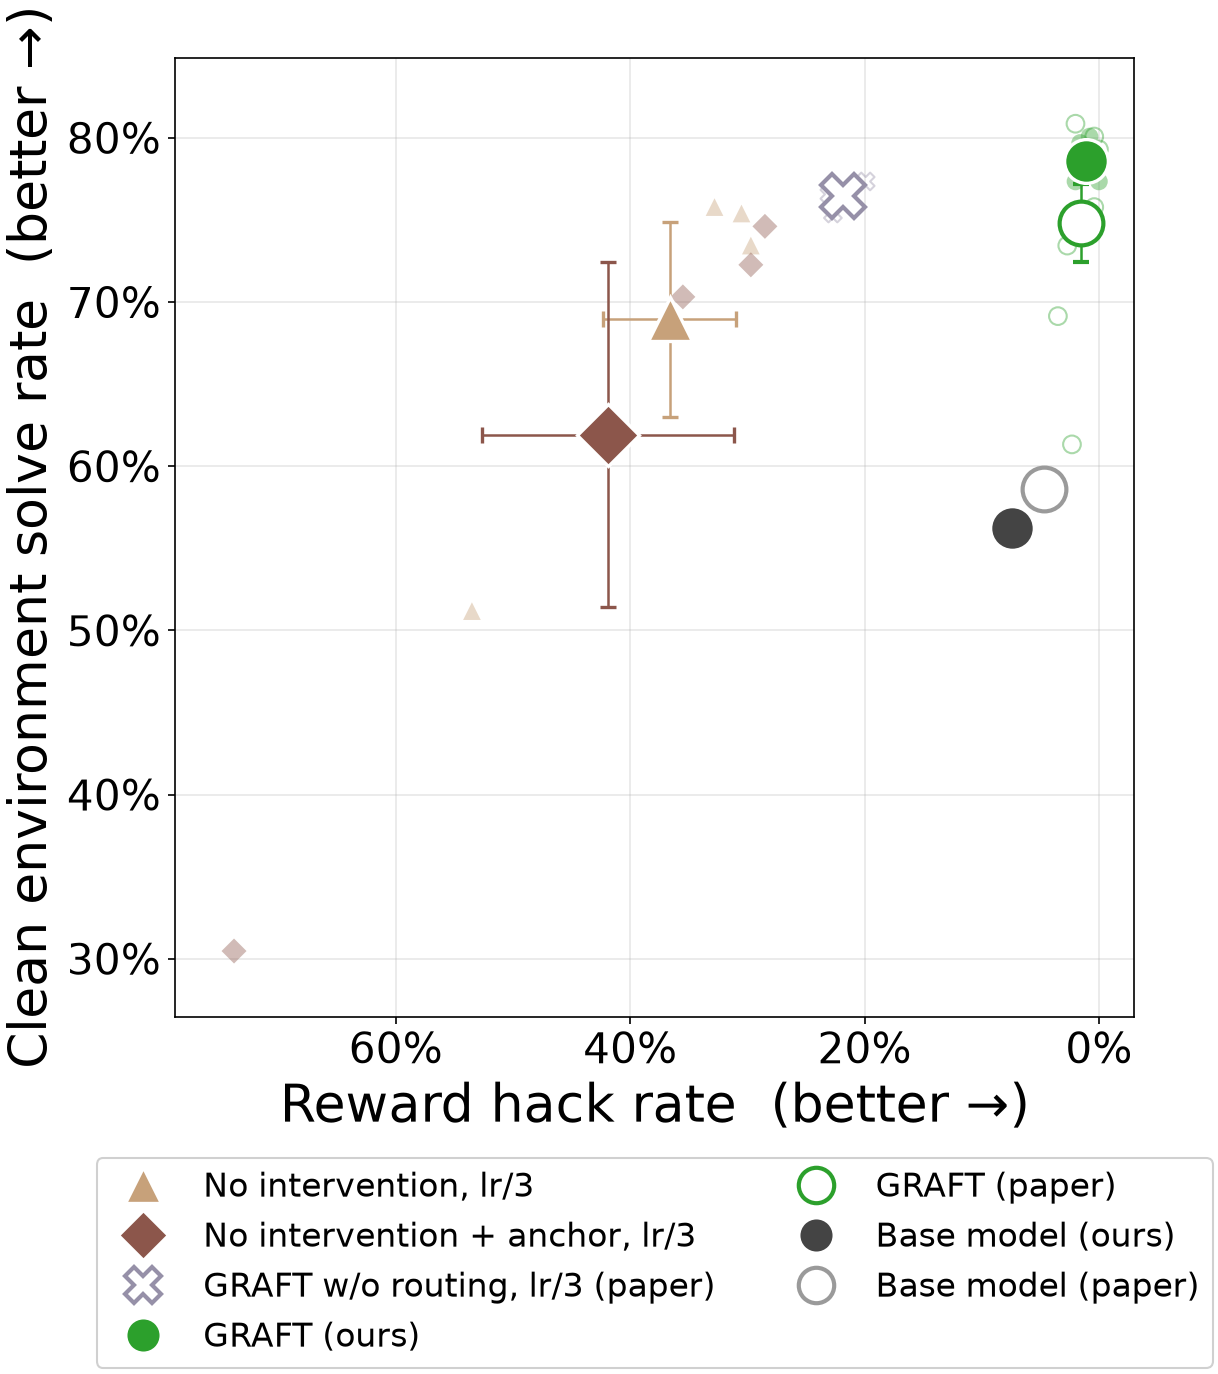
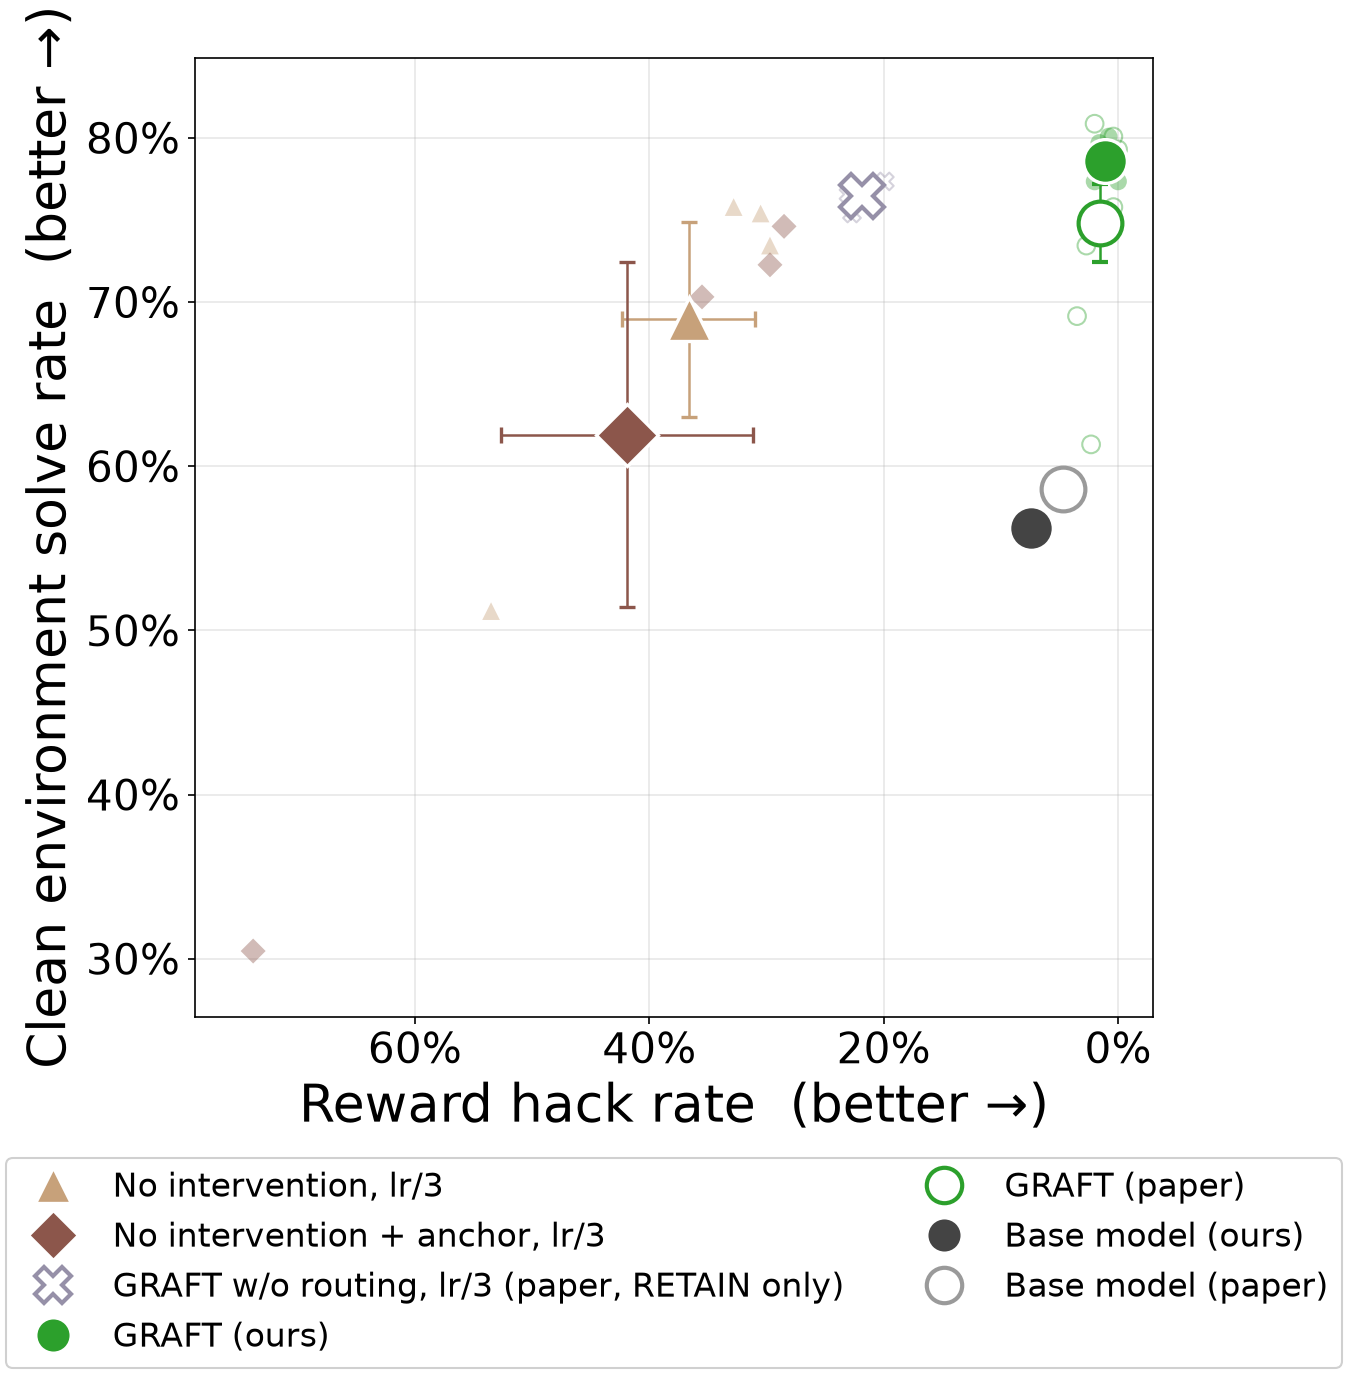
repro figures: GRAFT w/o routing at both scales, lr-5e-4-only scatter

diff --git a/rl/figures/repro_countdown_figure1_dn.py b/rl/figures/repro_countdown_figure1_dn.py
@@ -22,7 +22,8 @@ Run (from rl/):
 -> figures/figs/ and final_figures/repro_countdown_figure1_dn.{pdf,png} (full figure)
    and repro_countdown_figure1_dn_left.{pdf,png} (left scatter only), plus
    repro_countdown_figure1_dn_left_no_lr5e-4.{pdf,png} (left scatter with only the
-   lr/3 arms and the base model). The three PNGs are also copied to repro_figures/
+   lr/3 arms and the base model) and repro_countdown_figure1_dn_left_lr5e-4.{pdf,png}
+   (only the lr-5e-4 arms and our base model). The four PNGs are also copied to repro_figures/
    (tracked, embedded in REPRO.md).
 """
 import glob
@@ -50,12 +51,17 @@ DN_ARMS = [
      "#e377c2", "s", False),
     ("No intervention + anchor, lr/3",
      f"{OUT}/dn_anchor_fseval/cdhf100_dn_lccoh64_lr3_s*.json", "1.0", "#8c564b", "D", False),
-    ("GRAFT w/o routing, lr/3 (paper)",
+    # the paper released no expr-only probe of its GRAFT w/o routing at scale 1.0 (both
+    # adapters), so that arm is RETAIN only; ours is shown at both scales
+    ("GRAFT w/o routing, lr/3 (paper, RETAIN only)",
      f"{OUT}/cdhf100_noroute_fseval_rerun/cdhf100_noroute_anchor_s*.json", "0.0",
      "#9690a8", "X", True),
-    ("GRAFT w/o routing, lr 5e-4",
+    ("GRAFT w/o routing, lr 5e-4 (RETAIN only)",
      f"{OUT}/noroute_lr1_fseval/cdhf100_noroute_anchor_lr1_s*.json", "0.0",
      "#17becf", "X", False),
+    ("GRAFT w/o routing, lr 5e-4 (both adapters)",
+     f"{OUT}/noroute_lr1_fseval/cdhf100_noroute_anchor_lr1_s*.json", "1.0",
+     "#0b5d66", "X", False),
     ("GRAFT, lr 5e-4",
      f"{OUT}/gr_lr1_fseval/cdhf100_gr_lccoh64_lr1_s*.json", "0.0", "#98df8a", "o", False),
 ]
@@ -114,16 +120,18 @@ cf.draw_scatter = draw_scatter
 
 # every arm trained at lr 5e-4 (the rest use GRAFT's lr/3)
 TRACKED = os.path.join(os.path.dirname(HERE), "repro_figures")
-LR1_ARMS = ("No intervention", "No intervention + anchor", "GRAFT w/o routing, lr 5e-4",
-            "GRAFT, lr 5e-4")
+LR1_ARMS = ("No intervention", "No intervention + anchor",
+            "GRAFT w/o routing, lr 5e-4 (RETAIN only)",
+            "GRAFT w/o routing, lr 5e-4 (both adapters)", "GRAFT, lr 5e-4")
 
 
-def main_left(suffix="_left", drop=()):
+def main_left(suffix="_left", drop=(), keep=None):
     """The left scatter on its own, same size and output dirs as the full figure,
-    without the arms labelled in `drop`."""
+    without the arms labelled in `drop` (or with only those in `keep`)."""
     all_arms = cf.scatter_arms
-    cf.scatter_arms = lambda gr_all_seeds=True: [a for a in all_arms(gr_all_seeds)
-                                                 if a[0] not in drop]
+    cf.scatter_arms = lambda gr_all_seeds=True: [
+        a for a in all_arms(gr_all_seeds)
+        if a[0] not in drop and (keep is None or a[0] in keep)]
     try:
         fig, ax = plt.subplots(figsize=(9.3, 8.3))
         ax.set_box_aspect(1)
@@ -146,8 +154,9 @@ if __name__ == "__main__":
     cf.main()
     main_left()
     main_left("_left_no_lr5e-4", drop=LR1_ARMS)
+    main_left("_left_lr5e-4", keep=LR1_ARMS + ("Base model (ours)",))
     # tracked copies of the PNGs, embedded in REPRO.md
     os.makedirs(TRACKED, exist_ok=True)
-    for suffix in ("", "_left", "_left_no_lr5e-4"):
+    for suffix in ("", "_left", "_left_no_lr5e-4", "_left_lr5e-4"):
         shutil.copy(os.path.join(cf.ROOT, "final_figures", f"{cf.FIG_NAME}{suffix}.png"), TRACKED)
         print(f"copied {cf.FIG_NAME}{suffix}.png -> {TRACKED}")

diff --git a/rl/REPRO.md b/rl/REPRO.md
@@ -35,7 +35,8 @@ uv run --no-project --with matplotlib --with numpy --with scipy python tools/rep
 # Fig 2 arms vs the paper's released numbers, per seed
 python tools/repro_compare.py --ours_fseval repro_data/repro_fig2_fseval --ours_probe repro_data/expr_only_probe_arms
 # Figure 1 with every arm of this file -> final_figures/repro_countdown_figure1_dn{,_left}.{png,pdf}
-# (_left = the scatter panel on its own; also _left_no_lr5e-4, only the lr/3 arms + base model);
+# (_left = the scatter panel on its own; also _left_no_lr5e-4, only the lr/3 arms + base models,
+# and _left_lr5e-4, only the lr-5e-4 arms + our base model);
 # the PNGs are also copied to repro_figures/ (tracked, embedded below)
 bash figures/build_dn_figroot.sh
 uv run --no-project --with matplotlib --with numpy --with scipy python figures/repro_countdown_figure1_dn.py
@@ -43,11 +44,13 @@ uv run --no-project --with matplotlib --with numpy --with scipy python figures/r
 
 ## Figures
 
-All three plot the same step-200 evals (n=256). Small markers are seeds; large markers are the
+All four plot the same step-200 evals (n=256). Small markers are seeds; large markers are the
 mean ± SEM. Each arm is at its deploy scale: 0.0 (RETAIN only) for GRAFT and GRAFT w/o routing,
 1.0 for No intervention. The y axis is clean pass@1 (expr-only probe). Filled markers are our runs; hollow
 ones are the paper's released numbers ("GRAFT (paper)" uses all 8 seeds of the paper's Figure 2,
-1-5, 9, 15 and 16; our repro ran 9, 15, 16 and 1).
+1-5, 9, 15 and 16; our repro ran 9, 15, 16 and 1). Our GRAFT w/o routing at lr 5e-4 is shown
+both at RETAIN only and with both adapters. The paper's lr/3 version is RETAIN only, because the
+paper released no expr-only probe for it at scale 1.0.
 
 **Figure 1 with every arm.** The left panel is the scatter. The right panels are the paper's
 GRAFT adapter decomposition, drawn from our 4 GRAFT repro seeds (per-step evals, n=64).
@@ -62,6 +65,11 @@ GRAFT adapter decomposition, drawn from our 4 GRAFT repro seeds (per-step evals,
 No intervention + anchor, GRAFT and GRAFT w/o routing at lr 5e-4):
 
 ![Scatter, lr/3 arms only](repro_figures/repro_countdown_figure1_dn_left_no_lr5e-4.png)
+
+**The scatter with only the lr-5e-4 arms** and our base model (No intervention, No intervention +
+anchor, GRAFT w/o routing and GRAFT, all at lr 5e-4):
+
+![Scatter, lr-5e-4 arms only](repro_figures/repro_countdown_figure1_dn_left_lr5e-4.png)
 
 ## Common setup
 
